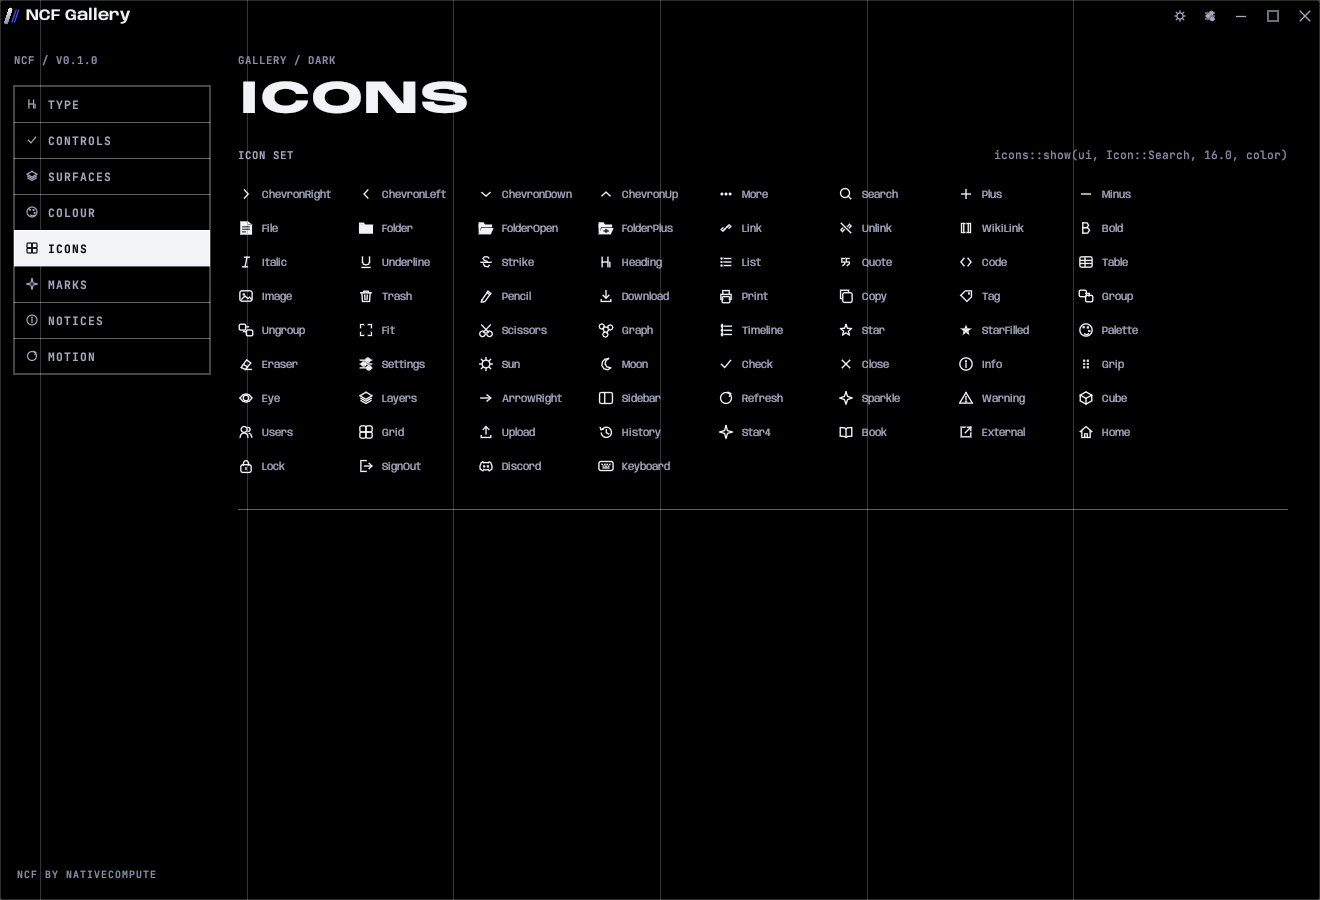
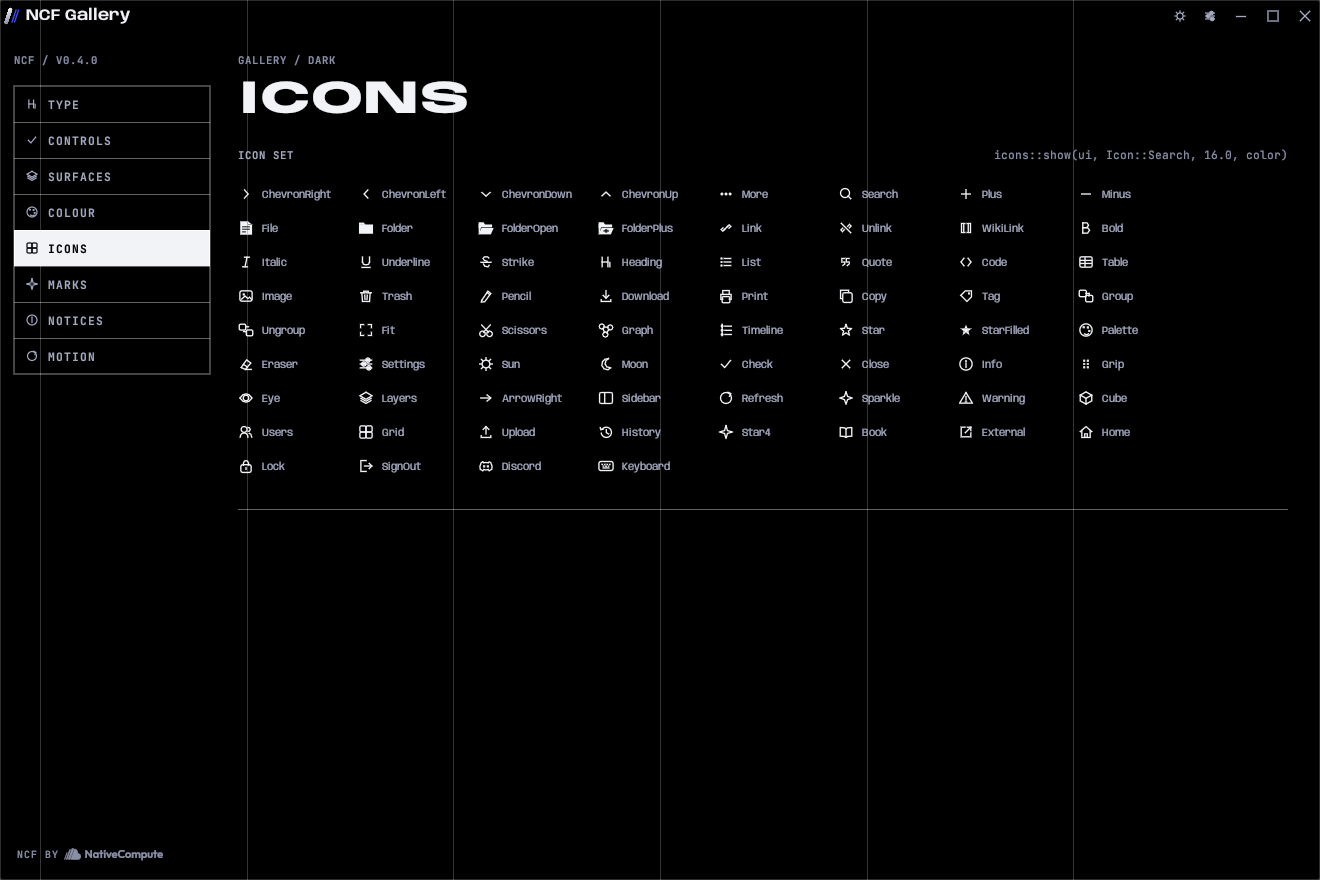
NCF 0.4.0
Claude-Session: https://claude.ai/code/session_01LzjMi5ffD7819hBMkEpm4j

diff --git a/CHANGELOG.md b/CHANGELOG.md
@@ -4,9 +4,13 @@ NCF follows [semantic versioning](https://semver.org). Apps pin a tag, so nothin
 
 ## Unreleased
 
+## 0.4.0
+
+Launch polish: apps ask about a new version before they open, the splash and updater are shorter, and notices are square readouts.
+
 ### Desktop (`ncf`)
 - **Update prompt at launch.** The splash waits for the update check, and when a newer version is out, it turns into a prompt with *Update now*, *Not now* and *Skip this version*. The app opens only after a choice. With the splash off, the same card covers the app until it is answered. `splash::Offer`, `splash::Choice`, `Splash::set_offer`, `Splash::take_choice` and `splash::prompt`. A skipped version is stored as `skipped_update`; the settings file is unchanged until one is.
-- **Compact splash and updater.** The splash card is 540×200 instead of 540×296, and the updater window 540×304 instead of 540×364; the updater grows only when an error needs the room.
+- **Compact splash and updater.** The splash card is 540×200 instead of 540×296, and the updater window 540×308 instead of 540×364; the updater grows only when an error needs the room.
 - **Notices in the NCF look.** Notices and confirmations are square panels with a hairline and a tone bar, a HUD label (DONE, NOTE, WARNING, ERROR) and the message. Confirmations use the standard primary and ghost buttons. No more pills or gradient washes.
 
 ## 0.3.0

diff --git a/README.md b/README.md
@@ -22,7 +22,7 @@ Or add NCF to an existing app:
 
 ```toml
 [dependencies]
-ncf = { git = "https://github.com/NativeCompute/ncf", tag = "v0.3.0" }
+ncf = { git = "https://github.com/NativeCompute/ncf", tag = "v0.4.0" }
 ```
 
 ```rust
